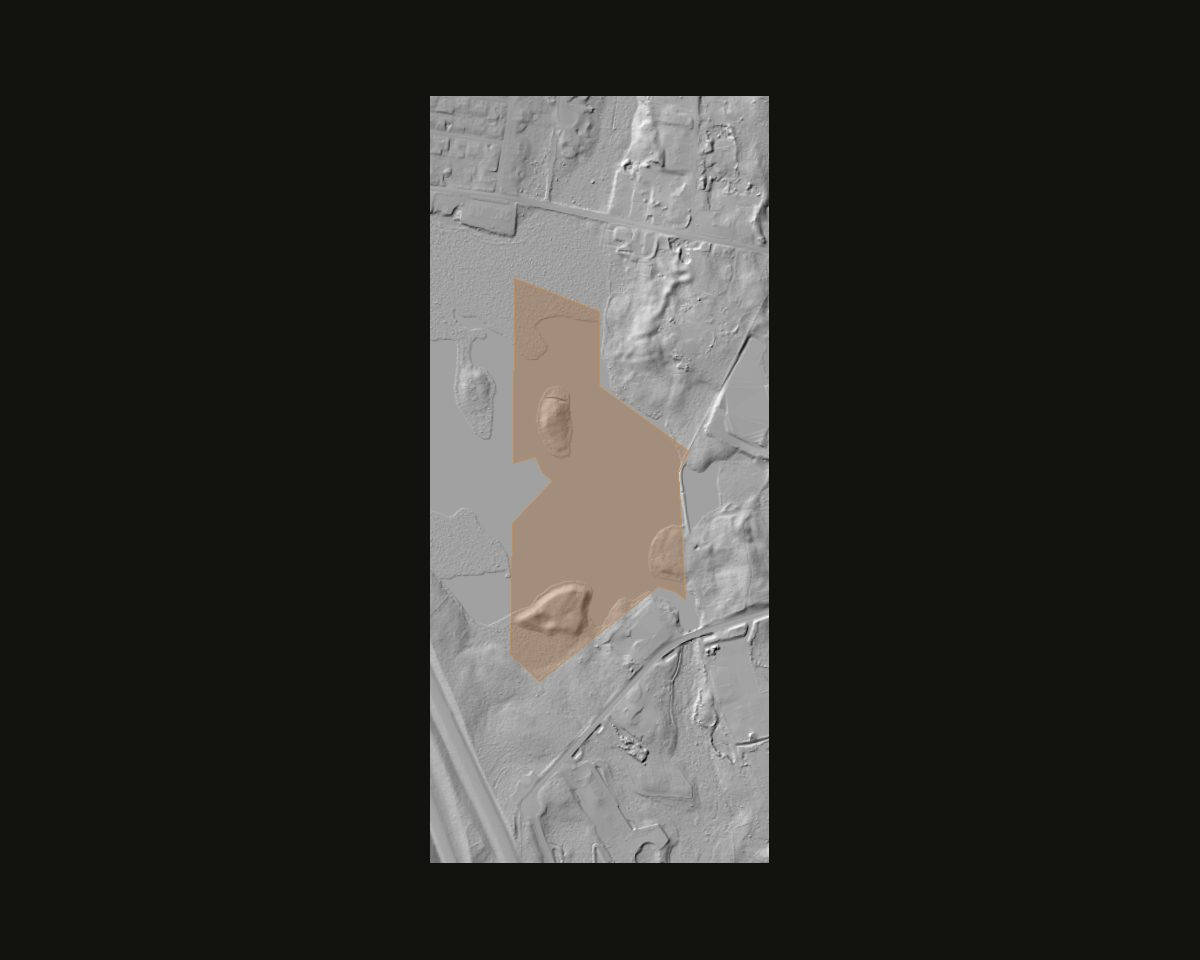
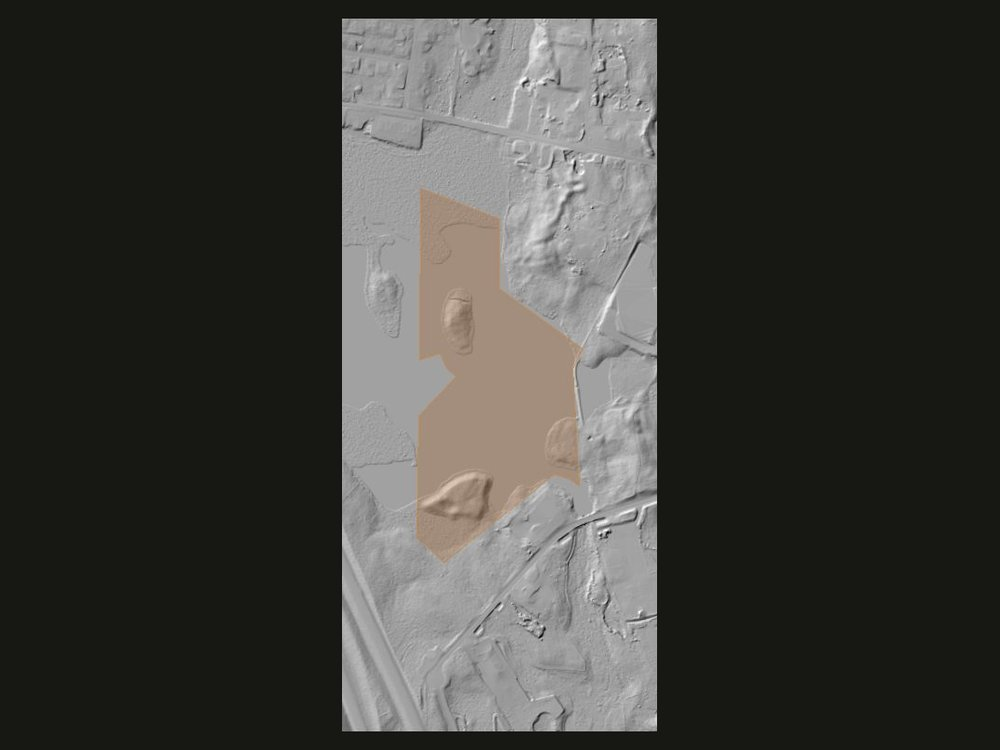
Fix lidar swipe clipping and thumbnail rendering
- Clip the lidar pane with pixel insets in pane coordinates so the
  swipe comparison survives pan/zoom (the pane is a zero-size box
  Leaflet translates, which collapsed the old percentage clip-path)
- Add height:auto to the base img rule so width/height attributes
  stop distorting images whose CSS width shrinks (index cards were
  ignoring their 16:9 crop entirely)
- Tight-crop the five rank thumbnails and recompose the four fail
  thumbnails on a uniform 4:3 canvas, removing the huge baked-in
  black margins; update declared dimensions
- Nudge object-position on two index cards so their AOI boxes
  survive the 16:9 crop

Changed region(s): [[0.341, 0.0, 0.682, 0.9813]]

diff --git a/p04.html b/p04.html
@@ -110,22 +110,22 @@
     7.4-acre pad — the lidar shows why a table cell cannot.</p>
     <div class="moat">
       <article class="fail-card" data-p04-id="fail-11" tabindex="0" role="button">
-        <img src="assets/p04_lidar_fail_deer.jpg" alt="2021 lidar hillshade of 80 Deer Street in Milford" width="1200" height="960" loading="lazy">
+        <img src="assets/p04_lidar_fail_deer.jpg" alt="2021 lidar hillshade of 80 Deer Street in Milford" width="1000" height="750" loading="lazy">
         <h3>80 Deer St, Milford</h3>
         <p>13.3 acres, 99% mapped constraints. Almost none of the parcel is outside steep ground and wetland/stream buffers.</p>
       </article>
       <article class="fail-card" data-p04-id="fail-14" tabindex="0" role="button">
-        <img src="assets/p04_lidar_fail_i495.jpg" alt="2021 lidar hillshade of an I-495 remnant parcel in Milford" width="1200" height="960" loading="lazy">
+        <img src="assets/p04_lidar_fail_i495.jpg" alt="2021 lidar hillshade of an I-495 remnant parcel in Milford" width="1000" height="750" loading="lazy">
         <h3>I-495 remnant, Milford</h3>
         <p>18.5 acres, 100% constrained. Vacant on the roll; the lidar is highway, slope, and leftover scraps.</p>
       </article>
       <article class="fail-card" data-p04-id="fail-25" tabindex="0" role="button">
-        <img src="assets/p04_lidar_fail_alder.jpg" alt="2021 lidar hillshade of 36 R Alder Street in Medway" width="1200" height="960" loading="lazy">
+        <img src="assets/p04_lidar_fail_alder.jpg" alt="2021 lidar hillshade of 36 R Alder Street in Medway" width="1000" height="750" loading="lazy">
         <h3>36 R Alder St, Medway</h3>
         <p>100% constrained in the screen. Hummocky ground and a highway embankment eat the pad window.</p>
       </article>
       <article class="fail-card" data-p04-id="fail-36" tabindex="0" role="button">
-        <img src="assets/p04_lidar_fail_uncas.jpg" alt="2021 lidar hillshade of the Uncas Pond parcel in Franklin" width="1200" height="960" loading="lazy">
+        <img src="assets/p04_lidar_fail_uncas.jpg" alt="2021 lidar hillshade of the Uncas Pond parcel in Franklin" width="1000" height="750" loading="lazy">
         <h3>Uncas Pond, Franklin</h3>
         <p>Only 14% mapped constraints — and still no contiguous 7.4-acre pad. Shape and local relief matter as much as the percentage.</p>
       </article>
@@ -146,23 +146,23 @@
     54-parcel audit remains available for transparency.</p>
     <div class="ranking-cards" aria-label="Five lowest modeled earthwork results">
       <article class="rank-card" data-p04-id="pass-01" tabindex="0" role="button">
-        <img src="assets/p04_lidar_01.jpg" alt="2021 lidar hillshade of West Central Street, Franklin" width="1200" height="960" loading="lazy">
+        <img src="assets/p04_lidar_01.jpg" alt="2021 lidar hillshade of West Central Street, Franklin" width="455" height="505" loading="lazy">
         <div class="rank">01</div><h3>West Central St</h3><p>Franklin · 87.1 acres</p><strong>$1.94 / pad SF</strong><span>7.4-acre pad · 31,047 yd³ modeled</span>
       </article>
       <article class="rank-card" data-p04-id="pass-02" tabindex="0" role="button">
-        <img src="assets/p04_lidar_02.jpg" alt="2021 lidar hillshade of 23 R Tulip Way, Medway" width="1200" height="960" loading="lazy">
+        <img src="assets/p04_lidar_02.jpg" alt="2021 lidar hillshade of 23 R Tulip Way, Medway" width="549" height="454" loading="lazy">
         <div class="rank">02</div><h3>23 R Tulip Way</h3><p>Medway · 24.7 acres</p><strong>$2.24 / pad SF</strong><span>7.4-acre pad · 35,803 yd³ modeled</span>
       </article>
       <article class="rank-card" data-p04-id="pass-03" tabindex="0" role="button">
-        <img src="assets/p04_lidar_03.jpg" alt="2021 lidar hillshade of High Street, Bellingham" width="1200" height="960" loading="lazy">
+        <img src="assets/p04_lidar_03.jpg" alt="2021 lidar hillshade of High Street, Bellingham" width="522" height="533" loading="lazy">
         <div class="rank">03</div><h3>High St</h3><p>Bellingham · 33.7 acres</p><strong>$3.16 / pad SF</strong><span>7.4-acre pad · 50,468 yd³ modeled</span>
       </article>
       <article class="rank-card" data-p04-id="pass-04" tabindex="0" role="button">
-        <img src="assets/p04_lidar_04.jpg" alt="2021 lidar hillshade of Hartford Avenue, Bellingham" width="1200" height="960" loading="lazy">
+        <img src="assets/p04_lidar_04.jpg" alt="2021 lidar hillshade of Hartford Avenue, Bellingham" width="271" height="438" loading="lazy">
         <div class="rank">04</div><h3>Hartford Ave</h3><p>Bellingham · 20.8 acres</p><strong>$3.58 / pad SF</strong><span>7.4-acre pad · 57,217 yd³ modeled</span>
       </article>
       <article class="rank-card" data-p04-id="pass-05" tabindex="0" role="button">
-        <img src="assets/p04_lidar_05.jpg" alt="2021 lidar hillshade of 4 Technology Drive, Milford" width="1200" height="960" loading="lazy">
+        <img src="assets/p04_lidar_05.jpg" alt="2021 lidar hillshade of 4 Technology Drive, Milford" width="273" height="488" loading="lazy">
         <div class="rank">05</div><h3>4 Technology Dr</h3><p>Milford · 18.5 acres</p><strong>$3.86 / pad SF</strong><span>7.4-acre pad · 61,756 yd³ modeled</span>
       </article>
     </div>

diff --git a/index.html b/index.html
@@ -130,11 +130,11 @@
             <div class="body"><div class="num">PROJECT 01 · DEVENS, MA</div><h3>The pad under the forest</h3><p>Public LiDAR captured the parcel shortly before construction, allowing a comparison with the building that followed.</p><div class="statline">Camera-surface overstatement: 282,158 yd³ ≈ $5.6M</div><div class="go">VIEW PROJECT →</div></div>
           </a>
           <a class="card" href="middleboro.html">
-            <img src="assets/card_middleboro.jpg" alt="Middleborough bare-earth hillshade" loading="lazy" width="800" height="643">
+            <img src="assets/card_middleboro.jpg" alt="Middleborough bare-earth hillshade" loading="lazy" width="800" height="643" style="object-position: 50% 18%">
             <div class="body"><div class="num">PROJECT 02 · MIDDLEBOROUGH, MA</div><h3>The warehouse that wasn't</h3><p>A proposed warehouse site where terrain screening finds manageable dirt work but significant mapped and terrain-based wetness questions.</p><div class="statline">Terrain screen: 175 of 441 acres pass slope and mapped-buffer tests</div><div class="go">VIEW PROJECT →</div></div>
           </a>
           <a class="card" href="hopkinton.html">
-            <img src="assets/card_hopkinton.jpg" alt="Hopkinton bare-earth hillshade" loading="lazy" width="800" height="643">
+            <img src="assets/card_hopkinton.jpg" alt="Hopkinton bare-earth hillshade" loading="lazy" width="800" height="643" style="object-position: 50% 25%">
             <div class="body"><div class="num">PROJECT 03 · HOPKINTON–MILFORD LINE</div><h3>Three pads, three price tags</h3><p>The same conceptual warehouse footprint produces very different screening-level earthwork costs depending on where it sits.</p><div class="statline">Same pad concept: $3.96M, $6.34M, or $6.50M of earthwork</div><div class="go">VIEW PROJECT →</div></div>
           </a>
           <a class="card" href="p04.html">

diff --git a/p04-map.js b/p04-map.js
@@ -28,7 +28,12 @@
     const pane = map.getPane("lidarPane");
     if (!pane) return;
     const percent = Math.round(fraction * 100);
-    pane.style.clipPath = `inset(0 0 0 ${percent}%)`;
+    // The pane is a zero-size box that Leaflet translates as you pan/zoom, so a
+    // percentage clip-path collapses. Clip with pixel insets in pane coordinates.
+    const size = map.getSize();
+    const pos = L.DomUtil.getPosition(map.getPane("mapPane"));
+    const splitX = fraction * size.x;
+    pane.style.clipPath = `inset(${-pos.y}px ${pos.x - size.x}px ${pos.y - size.y}px ${splitX - pos.x}px)`;
     if (bar) bar.style.left = `${percent}%`;
     frame.setAttribute("aria-valuenow", String(percent));
     frame.setAttribute("aria-valuetext", `${percent}% aerial imagery, ${100 - percent}% LiDAR hillshade`);

diff --git a/site.css b/site.css
@@ -48,6 +48,7 @@ body::before {
 
 img {
   max-width: 100%;
+  height: auto;
 }
 
 a {
